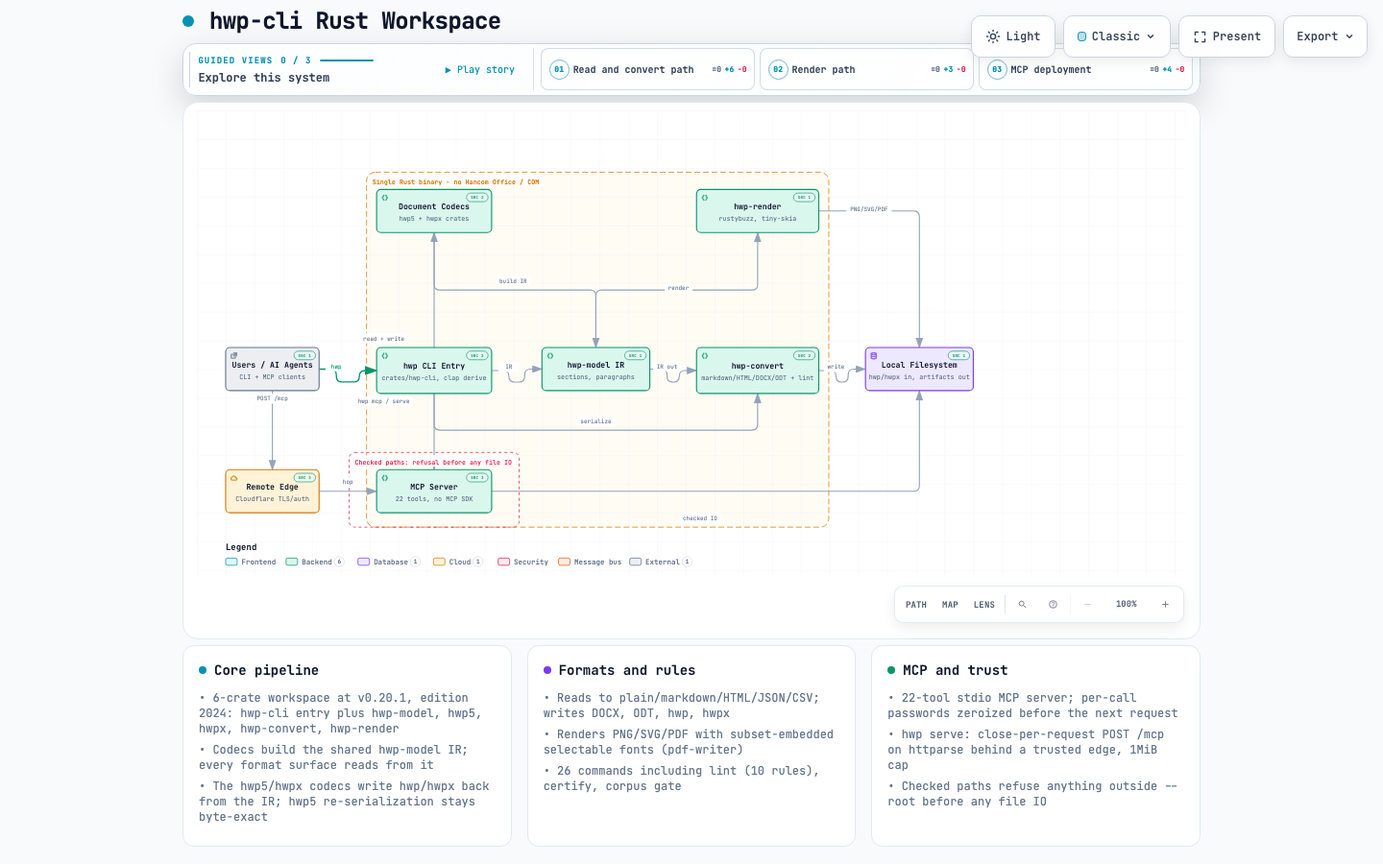
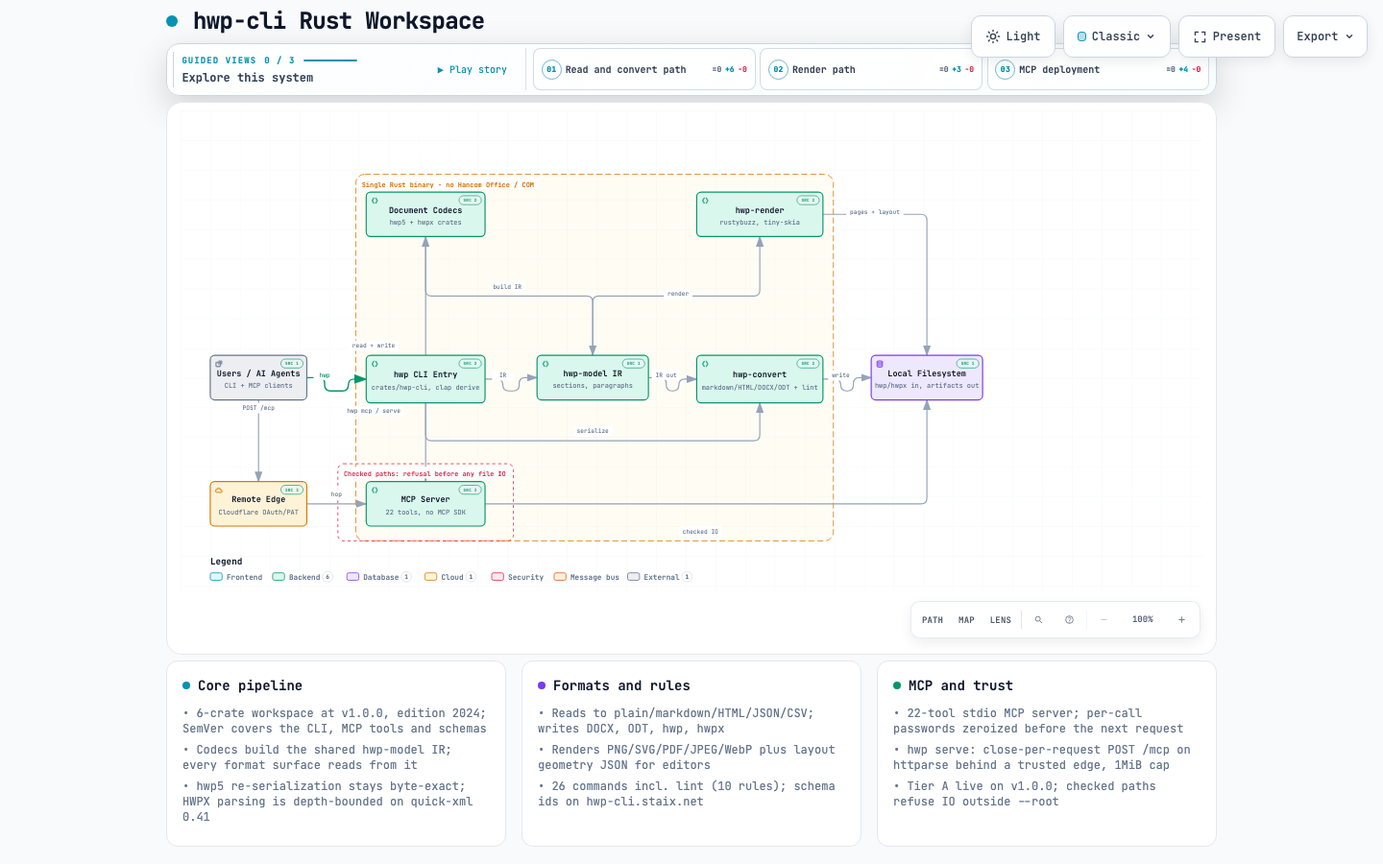
docs(archify): refresh the hwp-cli blueprint for v1.0.0
Revision 982c3e6: v1.0.0 with the SemVer scope, quick-xml 0.41 and the
depth-bounded HWPX parse, JPEG/WebP and layout-geometry output, schema
ids on hwp-cli.staix.net, and Tier A live behind Cloudflare OAuth/PAT.

Claude-Session: https://claude.ai/code/session_01Db8zCWZeJeNkrn9LPfnFH9

diff --git a/docs/hwp-cli-rendered.html b/docs/hwp-cli-rendered.html
@@ -5085,8 +5085,8 @@ OTHER DEALINGS IN THE FONT SOFTWARE.
       </div>
     </div>
 
-    <script id="archify-guided-views-data" type="application/json">[{"id":"read-path","label":"Read and convert path","focus":["user","cli","codecs","model","convert","fs"],"note":"From hwp/hwpx input to IR and converted artifacts."},{"id":"render-path","label":"Render path","focus":["model","render","fs"],"note":"IR to glyph shaping, layout and PNG/SVG/PDF publishing."},{"id":"mcp-path","label":"MCP deployment","focus":["cli","mcp","edge","fs"],"note":"22-tool stdio server and the POST /mcp edge hop."}]</script>
-    <script id="archify-source-evidence-data" type="application/json">{"schemaVersion":1,"verified":true,"repository":{"url":"https://github.com/STAIxBWLB/hwp-cli","revision":"41a1c555747b338efe265f87cb6dca06b223cad7","shortRevision":"41a1c55","label":"STAIxBWLB/hwp-cli","href":"https://github.com/STAIxBWLB/hwp-cli/tree/41a1c555747b338efe265f87cb6dca06b223cad7"},"referenceCount":16,"nodes":{"user":[{"path":"crates/hwp-cli/src/cli.rs","line":68,"label":"clap derive Cmd enum","href":"https://github.com/STAIxBWLB/hwp-cli/blob/41a1c555747b338efe265f87cb6dca06b223cad7/crates/hwp-cli/src/cli.rs#L68"}],"cli":[{"path":"crates/hwp-cli/src/cli.rs","line":68,"endLine":580,"label":"26-variant Cmd enum","href":"https://github.com/STAIxBWLB/hwp-cli/blob/41a1c555747b338efe265f87cb6dca06b223cad7/crates/hwp-cli/src/cli.rs#L68-L580"},{"path":"crates/hwp-cli/src/main.rs","line":1,"label":"hwp binary entrypoint","href":"https://github.com/STAIxBWLB/hwp-cli/blob/41a1c555747b338efe265f87cb6dca06b223cad7/crates/hwp-cli/src/main.rs#L1"}],"codecs":[{"path":"crates/hwp5/src/lib.rs","line":1,"label":"CFB record stream codec","href":"https://github.com/STAIxBWLB/hwp-cli/blob/41a1c555747b338efe265f87cb6dca06b223cad7/crates/hwp5/src/lib.rs#L1"},{"path":"crates/hwpx/src/lib.rs","line":1,"label":"OWPML package codec","href":"https://github.com/STAIxBWLB/hwp-cli/blob/41a1c555747b338efe265f87cb6dca06b223cad7/crates/hwpx/src/lib.rs#L1"}],"model":[{"path":"crates/hwp-model/src/lib.rs","line":1,"label":"L1 semantic IR, serde only","href":"https://github.com/STAIxBWLB/hwp-cli/blob/41a1c555747b338efe265f87cb6dca06b223cad7/crates/hwp-model/src/lib.rs#L1"}],"render":[{"path":"crates/hwp-render/src/lib.rs","line":1,"label":"IR to PNG/SVG/PDF pipeline","href":"https://github.com/STAIxBWLB/hwp-cli/blob/41a1c555747b338efe265f87cb6dca06b223cad7/crates/hwp-render/src/lib.rs#L1"}],"convert":[{"path":"crates/hwp-convert/src/lint.rs","line":76,"endLine":85,"label":"10 stable rule ids","href":"https://github.com/STAIxBWLB/hwp-cli/blob/41a1c555747b338efe265f87cb6dca06b223cad7/crates/hwp-convert/src/lint.rs#L76-L85"},{"path":"crates/hwp-convert/src/official.rs","line":9,"label":"6 official-document profiles","href":"https://github.com/STAIxBWLB/hwp-cli/blob/41a1c555747b338efe265f87cb6dca06b223cad7/crates/hwp-convert/src/official.rs#L9"}],"fs":[{"path":"crates/hwp-cli/src/certification.rs","line":2964,"label":"atomic write_artifact staging","href":"https://github.com/STAIxBWLB/hwp-cli/blob/41a1c555747b338efe265f87cb6dca06b223cad7/crates/hwp-cli/src/certification.rs#L2964"}],"mcp":[{"path":"crates/hwp-cli/src/commands/mcp/mod.rs","line":2302,"label":"tool_defs: 22 tool table","href":"https://github.com/STAIxBWLB/hwp-cli/blob/41a1c555747b338efe265f87cb6dca06b223cad7/crates/hwp-cli/src/commands/mcp/mod.rs#L2302"},{"path":"crates/hwp-cli/src/commands/mcp/stdio.rs","line":4,"label":"per-call password zeroize","href":"https://github.com/STAIxBWLB/hwp-cli/blob/41a1c555747b338efe265f87cb6dca06b223cad7/crates/hwp-cli/src/commands/mcp/stdio.rs#L4"},{"path":"crates/hwp-cli/src/commands/mcp/authority.rs","line":273,"label":"checked_read_path / checked_write_path","href":"https://github.com/STAIxBWLB/hwp-cli/blob/41a1c555747b338efe265f87cb6dca06b223cad7/crates/hwp-cli/src/commands/mcp/authority.rs#L273"}],"edge":[{"path":"crates/hwp-cli/src/commands/mcp/http.rs","line":1,"label":"close-per-request POST /mcp adapter","href":"https://github.com/STAIxBWLB/hwp-cli/blob/41a1c555747b338efe265f87cb6dca06b223cad7/crates/hwp-cli/src/commands/mcp/http.rs#L1"},{"path":"crates/hwp-cli/src/commands/mcp/wire.rs","line":1,"label":"httparse head parsing, bounded framing","href":"https://github.com/STAIxBWLB/hwp-cli/blob/41a1c555747b338efe265f87cb6dca06b223cad7/crates/hwp-cli/src/commands/mcp/wire.rs#L1"},{"path":"docs/design/22-remote-mcp-deployment.md","line":85,"label":"private hop behind a trusted edge","href":"https://github.com/STAIxBWLB/hwp-cli/blob/41a1c555747b338efe265f87cb6dca06b223cad7/docs/design/22-remote-mcp-deployment.md#L85"}]}}</script>
+    <script id="archify-guided-views-data" type="application/json">[{"id":"read-path","label":"Read and convert path","focus":["user","cli","codecs","model","convert","fs"],"note":"From hwp/hwpx input to IR and converted artifacts."},{"id":"render-path","label":"Render path","focus":["model","render","fs"],"note":"IR to glyph shaping, layout, page output and layout geometry."},{"id":"mcp-path","label":"MCP deployment","focus":["cli","mcp","edge","fs"],"note":"22-tool stdio server and the POST /mcp edge hop."}]</script>
+    <script id="archify-source-evidence-data" type="application/json">{"schemaVersion":1,"verified":true,"repository":{"url":"https://github.com/STAIxBWLB/hwp-cli","revision":"982c3e63557546b8721009405d87d5b6af7c64de","shortRevision":"982c3e6","label":"STAIxBWLB/hwp-cli","href":"https://github.com/STAIxBWLB/hwp-cli/tree/982c3e63557546b8721009405d87d5b6af7c64de"},"referenceCount":17,"nodes":{"user":[{"path":"crates/hwp-cli/src/cli.rs","line":68,"label":"clap derive Cmd enum","href":"https://github.com/STAIxBWLB/hwp-cli/blob/982c3e63557546b8721009405d87d5b6af7c64de/crates/hwp-cli/src/cli.rs#L68"}],"cli":[{"path":"crates/hwp-cli/src/cli.rs","line":68,"endLine":580,"label":"26-variant Cmd enum","href":"https://github.com/STAIxBWLB/hwp-cli/blob/982c3e63557546b8721009405d87d5b6af7c64de/crates/hwp-cli/src/cli.rs#L68-L580"},{"path":"crates/hwp-cli/src/main.rs","line":1,"label":"hwp binary entrypoint","href":"https://github.com/STAIxBWLB/hwp-cli/blob/982c3e63557546b8721009405d87d5b6af7c64de/crates/hwp-cli/src/main.rs#L1"}],"codecs":[{"path":"crates/hwp5/src/lib.rs","line":1,"label":"CFB record stream codec","href":"https://github.com/STAIxBWLB/hwp-cli/blob/982c3e63557546b8721009405d87d5b6af7c64de/crates/hwp5/src/lib.rs#L1"},{"path":"crates/hwpx/src/lib.rs","line":1,"label":"OWPML package codec","href":"https://github.com/STAIxBWLB/hwp-cli/blob/982c3e63557546b8721009405d87d5b6af7c64de/crates/hwpx/src/lib.rs#L1"}],"model":[{"path":"crates/hwp-model/src/lib.rs","line":1,"label":"L1 semantic IR, serde only","href":"https://github.com/STAIxBWLB/hwp-cli/blob/982c3e63557546b8721009405d87d5b6af7c64de/crates/hwp-model/src/lib.rs#L1"}],"render":[{"path":"crates/hwp-render/src/lib.rs","line":1,"label":"IR to page raster/vector pipeline","href":"https://github.com/STAIxBWLB/hwp-cli/blob/982c3e63557546b8721009405d87d5b6af7c64de/crates/hwp-render/src/lib.rs#L1"},{"path":"crates/hwp-render/src/segment_map.rs","line":1,"label":"render-layout-v1 geometry rows","href":"https://github.com/STAIxBWLB/hwp-cli/blob/982c3e63557546b8721009405d87d5b6af7c64de/crates/hwp-render/src/segment_map.rs#L1"}],"convert":[{"path":"crates/hwp-convert/src/lint.rs","line":76,"endLine":85,"label":"10 stable rule ids","href":"https://github.com/STAIxBWLB/hwp-cli/blob/982c3e63557546b8721009405d87d5b6af7c64de/crates/hwp-convert/src/lint.rs#L76-L85"},{"path":"crates/hwp-convert/src/official.rs","line":9,"label":"6 official-document profiles","href":"https://github.com/STAIxBWLB/hwp-cli/blob/982c3e63557546b8721009405d87d5b6af7c64de/crates/hwp-convert/src/official.rs#L9"}],"fs":[{"path":"crates/hwp-cli/src/certification.rs","line":2964,"label":"atomic write_artifact staging","href":"https://github.com/STAIxBWLB/hwp-cli/blob/982c3e63557546b8721009405d87d5b6af7c64de/crates/hwp-cli/src/certification.rs#L2964"}],"mcp":[{"path":"crates/hwp-cli/src/commands/mcp/mod.rs","line":2302,"label":"tool_defs: 22 tool table","href":"https://github.com/STAIxBWLB/hwp-cli/blob/982c3e63557546b8721009405d87d5b6af7c64de/crates/hwp-cli/src/commands/mcp/mod.rs#L2302"},{"path":"crates/hwp-cli/src/commands/mcp/stdio.rs","line":4,"label":"per-call password zeroize","href":"https://github.com/STAIxBWLB/hwp-cli/blob/982c3e63557546b8721009405d87d5b6af7c64de/crates/hwp-cli/src/commands/mcp/stdio.rs#L4"},{"path":"crates/hwp-cli/src/commands/mcp/authority.rs","line":273,"label":"checked_read_path / checked_write_path","href":"https://github.com/STAIxBWLB/hwp-cli/blob/982c3e63557546b8721009405d87d5b6af7c64de/crates/hwp-cli/src/commands/mcp/authority.rs#L273"}],"edge":[{"path":"crates/hwp-cli/src/commands/mcp/http.rs","line":1,"label":"close-per-request POST /mcp adapter","href":"https://github.com/STAIxBWLB/hwp-cli/blob/982c3e63557546b8721009405d87d5b6af7c64de/crates/hwp-cli/src/commands/mcp/http.rs#L1"},{"path":"crates/hwp-cli/src/commands/mcp/wire.rs","line":1,"label":"httparse head parsing, bounded framing","href":"https://github.com/STAIxBWLB/hwp-cli/blob/982c3e63557546b8721009405d87d5b6af7c64de/crates/hwp-cli/src/commands/mcp/wire.rs#L1"},{"path":"docs/design/22-remote-mcp-deployment.md","line":85,"label":"private hop behind a trusted edge","href":"https://github.com/STAIxBWLB/hwp-cli/blob/982c3e63557546b8721009405d87d5b6af7c64de/docs/design/22-remote-mcp-deployment.md#L85"}]}}</script>
     <script id="archify-i18n-data" type="application/json">{"locale":"en","messages":{"viewer.kind.frontend":"Frontend","viewer.kind.backend":"Backend","viewer.kind.database":"Database","viewer.kind.cloud":"Cloud","viewer.kind.security":"Security","viewer.kind.messagebus":"Message bus","viewer.kind.external":"External","viewer.kind.neutral":"Neutral","viewer.kind.node":"Node","viewer.kind.start":"Start","viewer.kind.active":"Active","viewer.kind.waiting":"Waiting","viewer.kind.decision":"Decision","viewer.kind.success":"Success","viewer.kind.failure":"Failure","viewer.toolbar.actions":"Diagram actions","viewer.theme.toggle.title":"Toggle theme (T)","viewer.theme.toggle":"Toggle color theme","viewer.theme.dark":"Dark","viewer.theme.light":"Light","viewer.preset.choose.title":"Choose visual style (S cycles)","viewer.preset.choose":"Choose visual style","viewer.preset.style":"Style","viewer.preset.menu":"Visual style","viewer.preset.identity":"Visual identity","viewer.preset.cycles":"S cycles","viewer.preset.classic":"Classic","viewer.preset.classic.short":"Classic","viewer.preset.classic.hint":"Stable technical default","viewer.preset.flow":"Signal Flow","viewer.preset.flow.short":"Flow","viewer.preset.flow.hint":"Motion-forward presentation","viewer.preset.blueprint":"Blueprint","viewer.preset.blueprint.hint":"Engineering review","viewer.preset.editorial":"Editorial","viewer.preset.editorial.hint":"Publication and launch notes","viewer.preset.badge.signalFlow":"SIGNAL FLOW","viewer.preset.badge.blueprint":"BLUEPRINT / REV 01","viewer.preset.badge.editorial":"EDITORIAL / FIELD NOTE","viewer.preset.badge.editorialPlate":"ARCHIFY / PLATE 04","viewer.preset.current":"Visual style: {style}. Choose visual style","viewer.motion.live":"Live","viewer.motion.still":"Still","viewer.motion.pause":"Pause motion","viewer.motion.resume":"Resume motion","viewer.motion.reduced":"Motion paused by reduced-motion preference","viewer.motion.hidden":"Motion paused while this page is hidden","viewer.motion.yielding":"Pause motion; currently yielding to {owner}","viewer.motion.yielding.title":"Live preview enabled · yielding to {owner}","viewer.owner.story":"the guided story","viewer.owner.chapter":"the active chapter","viewer.owner.chapterPreview":"the chapter delta preview","viewer.owner.handoff":"the chapter handoff","viewer.owner.route":"Route Probe","viewer.owner.lens":"Semantic Lens","viewer.owner.relationship":"Relationship Preview","viewer.owner.intent":"Intent Trace","viewer.owner.focus":"semantic focus","viewer.owner.legend":"legend preview","viewer.owner.reader":"reader interaction","viewer.present.enter":"Enter presentation stage","viewer.present.enter.title":"Presentation stage (F)","viewer.present.exit":"Exit presentation stage","viewer.present.exit.title":"Exit presentation stage (F or Escape)","viewer.present.present":"Present","viewer.present.exit.label":"Exit","viewer.export.button":"Export","viewer.export.button.title":"Export diagram (E)","viewer.export.diagram":"Export diagram","viewer.export.menu":"Export","viewer.export.subtitle":"Portable, clean outputs","viewer.export.share":"Share","viewer.export.shareCard":"Share Card","viewer.export.routeShareCard":"Route Share Card","viewer.export.reachShareCard":"Reach Share Card","viewer.export.copyShareCard":"Copy Share Card","viewer.export.copyDiagram":"Copy diagram","viewer.export.clipboardPng":"PNG to clipboard","viewer.export.raster":"Raster images","viewer.export.image":"Image","viewer.export.lossless":"Lossless image","viewer.export.compact":"Compact image","viewer.export.modern":"Modern image","viewer.export.vectorMotion":"Vector and motion","viewer.export.vectorMotion.heading":"Vector \u0026 motion","viewer.export.editable":"Editable vector","viewer.export.motion6s":"6s motion","viewer.export.unsupported":"Not supported by this browser","viewer.export.clipboardUnsupported":"Clipboard image write not supported by this browser","viewer.export.clipboardUnsupported.period":"Clipboard image write not supported by this browser.","viewer.export.clipboardUnsupported.short":"Clipboard image write not supported in this browser.","viewer.export.motionUnavailable":"Motion capture unavailable in this browser","viewer.export.webmUnavailable":"WebM unavailable in this browser","viewer.export.failed":"Export failed: {message}","viewer.export.unknownVariant":"Unknown Share Card variant: {variant}","viewer.export.routeRequired":"Trace a route before exporting a Route Share Card","viewer.export.reachRequired":"Trace authored reach before exporting a Reach Share Card","viewer.export.unknown":"unknown","viewer.export.routeFailed":"Route Share Card export failed: {message}","viewer.export.reachFailed":"Reach Share Card export failed: {message}","viewer.export.copyFailed":"Copy failed: {message}","viewer.export.copiedPng":"Copied PNG to clipboard","viewer.export.copiedShare":"Copied Share Card","viewer.export.downloadedShare":"Downloaded Share Card","viewer.export.downloadedRoute":"Downloaded Route Share Card","viewer.export.downloadedReach":"Downloaded Reach Share Card","viewer.export.downloadedWebm":"Downloaded WebM","viewer.export.recording":"Recording 6 seconds of motion…","viewer.export.card.routeSummary.one":"Route: {source} → {target} · {count} directed hop","viewer.export.card.routeSummary.other":"Route: {source} → {target} · {count} directed hops","viewer.export.card.reachSummary":"Authored {direction} from {origin} · {nodes} · {links} · max {hops}","viewer.export.card.node.one":"{count} node","viewer.export.card.node.other":"{count} nodes","viewer.export.card.link.one":"{count} link","viewer.export.card.link.other":"{count} links","viewer.export.card.hop.one":"{count} hop","viewer.export.card.hop.other":"{count} hops","viewer.export.card.routeBadge":"ARCHIFY · ROUTE · {hops}","viewer.export.card.reachBadge":"ARCHIFY · {direction} REACH","viewer.export.card.defaultBadge":"ARCHIFY · {preset} · {theme}","viewer.export.direction.upstream":"Upstream","viewer.export.direction.downstream":"Downstream","viewer.export.error.canvasUnavailable":"Canvas unavailable for {label}","viewer.export.error.contextUnavailable":"2D canvas context unavailable for {label}","viewer.export.error.toBlobUnavailable":"canvas.toBlob unavailable for {label}","viewer.export.error.toBlobNull":"canvas.toBlob returned no data for {label}","viewer.export.error.variantsCombined":"Share Card variants cannot be combined","viewer.export.error.viewerState":"Share Card export could not remove temporary viewer state","viewer.export.error.routeState":"Route Card export could not preserve the resolved route safely","viewer.export.error.reachState":"Reach Card export could not preserve authored reach safely","viewer.export.error.webmRequirements":"WebM motion export requires a trace animation and browser MediaRecorder support","viewer.export.error.mediaRecorder":"MediaRecorder failed","viewer.export.error.emptyWebm":"MediaRecorder produced an empty WebM","viewer.export.error.webmBackground":"SVG background could not be loaded for WebM export","viewer.guided.region":"Guided diagram views","viewer.guided.previous":"Previous guided view","viewer.guided.previous.title":"Previous guided view ([)","viewer.guided.next":"Next guided view","viewer.guided.next.title":"Next guided view (])","viewer.guided.views":"Guided views","viewer.guided.explore":"Explore this system","viewer.guided.intro":"Step through curated paths without changing the source diagram.","viewer.guided.trail":"Story trail","viewer.guided.beat":"Beat","viewer.guided.nextBeat":"Next","viewer.guided.play":"Play guided story","viewer.guided.play.title":"Play guided story (P)","viewer.guided.pause":"Pause guided story","viewer.guided.pause.title":"Pause guided story (P)","viewer.guided.replay":"Replay guided story","viewer.guided.replay.title":"Replay guided story (P)","viewer.guided.playStory":"Play story","viewer.guided.pauseStory":"Pause","viewer.guided.replayStory":"Replay story","viewer.guided.motionUnavailable":"Story playback unavailable while motion is Still","viewer.guided.enableMotion":"Switch motion to Live to play the guided story","viewer.guided.selectBeatLink":"Select a Story Beat to copy its exact link","viewer.guided.copyMoment":"Copy moment","viewer.guided.momentCopied":"Moment link copied","viewer.guided.momentCopyFailed":"Could not copy story moment link","viewer.guided.copied":"Copied","viewer.guided.copyFailed":"Copy failed","viewer.guided.showAll":"Show all","viewer.guided.showAll.aria":"Show entire diagram","viewer.guided.chapters":"Story chapters","viewer.guided.storyTrail":"Story trail for {label}: {count} beats","viewer.guided.chapter.open":"Open chapter {index} of {total}: {label}, {count} stops","viewer.guided.chapter.current":"Current chapter {index} of {total}: {label}, {count} stops","viewer.guided.chapter.selectedNodes":"{count} selected nodes","viewer.guided.chapter.stops":"{count} stops","viewer.guided.chapter.stop.one":"{count} stop","viewer.guided.chapter.stop.other":"{count} stops","viewer.guided.chapter.current.title":"{label} — current chapter, {count} stops","viewer.guided.chapter.delta.expanded":"{stay} stay, {enter} enter, {leave} leave","viewer.guided.chapter.delta.aria":"Open chapter {index} of {total}: {label}. Chapter focus delta: {delta}","viewer.guided.chapter.delta.title":"{label} — {delta} chapter focus","viewer.guided.handoff":"{from} → {to} · via {label}","viewer.guided.share.chapter":"Chapter {index} / {total}","viewer.guided.share.initial":"Chapter 01 / 01","viewer.guided.share.default":"Guided chapter","viewer.guided.state.ready":"Ready","viewer.guided.state.playing":"Playing","viewer.guided.state.settled":"Settled","viewer.guided.state.paused":"Paused","viewer.guided.state.pinned":"Pinned","viewer.guided.state.still":"Still","viewer.guided.share.step":"Step {index} / {total} · {label}","viewer.guided.share.staticMoment":"{step} · Static moment","viewer.guided.share.complete":"{count} steps complete · {note}","viewer.guided.share.settled":"Path settled for reading.","viewer.guided.share.staticPath":"{count} steps · Static path","viewer.guided.share.ready":"{count} steps · Ready","viewer.guided.share.aria":"{state} chapter {index} of {total}: {label}. {beat}. {route}","viewer.guided.beat.start":"Beat {index} / {total} · {label} · starting point","viewer.guided.beat.forward":"Beat {index} / {total} · {from} → {to}","viewer.guided.beat.reverse":"Beat {index} / {total} · {from} → {to} · reverse authored link","viewer.guided.beat.multiple":"Beat {index} / {total} · {from} ⇄ {to} · {count} authored links","viewer.guided.beat.group":"Beat {index} / {total} · {from} · {to} · grouped · no direct link","viewer.guided.beat.aria.prefix":"Story beat {index} of {total}: {label}. ","viewer.guided.beat.aria.start":"Starting point.","viewer.guided.beat.aria.forward":"From {from} through one authored forward relationship.","viewer.guided.beat.aria.reverse":"From {from}; the authored relationship points from {to} to {from}.","viewer.guided.beat.aria.multiple":"From {from} through {count} authored relationships; shown without arbitrary motion.","viewer.guided.beat.aria.group":"Grouped from {from} with no direct authored relationship.","viewer.guided.caption.start":"Starting point","viewer.guided.caption.grouped":"Grouped transition · no direct authored link","viewer.guided.caption.more":" +{count} more","viewer.guided.caption.reverse":"Reverse authored relationship","viewer.guided.caption.relationships":"{count} authored relationships","viewer.guided.caption.relationship":"Authored relationship","viewer.guided.caption.direction":"authored direction: {from} → {to}","viewer.guided.caption.starting":"Authored starting point","viewer.guided.beatLink":"Copy link to current story moment: Beat {index} of {total}: {label}","viewer.guided.noStory":"This diagram has no authored guided story.","viewer.guide.eyebrow":"Diagram guide","viewer.guide.close":"Close diagram guide","viewer.guide.inspecting":"Inspecting compiled semantics","viewer.guide.actions":"Diagram exploration actions","viewer.guide.find":"Find any node","viewer.guide.find.hint":"Search labels, responsibilities, kinds, and stable IDs.","viewer.guide.route":"Trace a route","viewer.guide.route.aria":"Trace a directed route","viewer.guide.route.hint":"Ask how two semantic nodes connect in authored direction.","viewer.guide.map":"See the whole system","viewer.guide.map.hint":"Open Semantic Radar with a live viewport and stable nodes.","viewer.guide.lens":"Compare semantic kinds","viewer.guide.lens.hint":"Count roles, reveal their traffic, and compare direct authored links.","viewer.guide.story":"Play the guided story","viewer.guide.story.hint":"Walk the authored chapters and real relationships.","viewer.guide.present":"Enter Presentation Stage","viewer.guide.present.hint":"Give the live diagram the viewport without changing export.","viewer.guide.shortcuts":"Additional keyboard shortcuts","viewer.guide.shortcut.export":"Export","viewer.guide.shortcut.theme":"Theme","viewer.guide.shortcut.style":"Style","viewer.guide.shortcut.reset":"Reset","viewer.guide.shortcut.zoomIn":"Zoom in","viewer.guide.shortcut.zoomOut":"Zoom out","viewer.guide.shortcut.close":"Close","viewer.guide.facts":"{nodes} · {relationships} · {views}","viewer.guide.fact.node.one":"{count} semantic node","viewer.guide.fact.node.other":"{count} semantic nodes","viewer.guide.fact.relationship.one":"{count} relationship","viewer.guide.fact.relationship.other":"{count} relationships","viewer.guide.fact.view.one":"{count} guided view","viewer.guide.fact.view.other":"{count} guided views","viewer.guide.story.available.one":"Walk {count} authored chapter and its real relationships.","viewer.guide.story.available.other":"Walk {count} authored chapters and their real relationships.","viewer.guide.story.unavailable":"No authored guided story in this diagram.","viewer.guide.open":"Open diagram guide","viewer.guide.noStory":"This diagram has no authored guided story.","viewer.finder.title":"Find a node","viewer.finder.close":"Close node finder","viewer.finder.placeholder":"Search labels or IDs","viewer.finder.search":"Search diagram nodes","viewer.finder.results":"Diagram nodes","viewer.finder.empty":"No matching nodes","viewer.finder.result.focus":"Focus {label}","viewer.finder.result.routeStart":"Choose {label} as route start","viewer.finder.result.routeTarget":"Choose {label} as route destination, {links}","viewer.finder.status.empty":"No matching nodes","viewer.finder.status.count.one":"{count} matching node","viewer.finder.status.count.other":"{count} matching nodes","viewer.finder.noun.nodes":"nodes","viewer.finder.link.one":"{count} link","viewer.finder.link.other":"{count} links","viewer.finder.result.focus.one":"Focus {label}, {count} related connection","viewer.finder.result.focus.other":"Focus {label}, {count} related connections","viewer.finder.status.filtered":"{visible} of {available} {noun}","viewer.finder.status.all":"{available} {noun}","viewer.passport.eyebrow":"Semantic passport","viewer.passport.metadata":"Node metadata","viewer.passport.evidence":"Verified source evidence","viewer.passport.verified":"Verified source","viewer.passport.verificationScope":"Verified against local Git at the pinned revision. Remote access has not been checked.","viewer.passport.reach":"Authored reach","viewer.passport.reach.trace":"Trace authored reachability","viewer.passport.upstream":"Upstream","viewer.passport.downstream":"Downstream","viewer.passport.upstream.trace":"Trace upstream authored reachability","viewer.passport.downstream.trace":"Trace downstream authored reachability","viewer.passport.close":"Close semantic passport","viewer.passport.copy":"Copy link","viewer.passport.copy.focus":"Copy link to focused node","viewer.passport.relations":"Relations","viewer.passport.relations.show":"Show connected relationships","viewer.passport.relations.hide":"Hide connected relationships","viewer.passport.relations.list":"Connected relationships","viewer.passport.copyRelation":"Copy relation","viewer.passport.copyNode":"Copy node","viewer.passport.copyPinned":"Copy link to pinned relationship","viewer.passport.copySource":"Copy link to source node","viewer.passport.copy.focused.success":"Focused node link copied","viewer.passport.copy.pinned.success":"Pinned relationship link copied","viewer.passport.copy.focused.failed":"Could not copy focused node link","viewer.passport.copy.pinned.failed":"Could not copy pinned relationship link","viewer.passport.relationship.none":"No connected relationships","viewer.passport.relationship.count.one":"{count} relation","viewer.passport.relationship.count.other":"{count} relations","viewer.passport.relationship.show.one":"Show {count} connected relationship","viewer.passport.relationship.show.other":"Show {count} connected relationships","viewer.passport.relationship.summary":"{out} outgoing · {in} incoming{loops}","viewer.passport.relationship.loops":" · {count} loop","viewer.passport.relationship.explorer":"Direct relationship explorer","viewer.passport.relationship.help":"Use arrow keys to explore relationships. Press Enter or Space to pin details; Escape clears.","viewer.passport.relationship.loopsBack":"loops back","viewer.passport.relationship.connectsTo":"connects to","viewer.passport.relationship.connectsFrom":"connects from","viewer.passport.relationship.pinned":"Pinned relationship · {from} → {to} · {label}","viewer.passport.relationship.inspect":"Inspect relationship {index} of {total}: {from} to {to}, {label}. Press Enter for details.","viewer.passport.relationship.group.out":"Outgoing","viewer.passport.relationship.group.in":"Incoming","viewer.passport.relationship.group.loop":"Self loops","viewer.passport.relationship.row":"{group}: {relationship}, {neighbor}","viewer.passport.relationship.direction.out":"OUT →","viewer.passport.relationship.direction.in":"← IN","viewer.passport.relationship.direction.loop":"LOOP","viewer.passport.sourceCount.one":"{count} verified source reference","viewer.passport.sourceCount.other":"{count} verified source references","viewer.passport.sourceMarker":"SRC","viewer.passport.beacon.one":"{count} verified source; focus this node to inspect","viewer.passport.beacon.other":"{count} verified sources; focus this node to inspect","viewer.passport.repository.open":"Open verified repository revision {revision}","viewer.passport.source.open":"Open verified source {path} at revision {revision}","viewer.passport.source.openLink":"Open ↗","viewer.passport.reach.upstream.one":"Trace {count} upstream authored node","viewer.passport.reach.upstream.other":"Trace {count} upstream authored nodes","viewer.passport.reach.downstream.one":"Trace {count} downstream authored node","viewer.passport.reach.downstream.other":"Trace {count} downstream authored nodes","viewer.passport.reach.noUpstream":"No upstream authored nodes","viewer.passport.reach.noDownstream":"No downstream authored nodes","viewer.passport.reach.status":"{direction} · {nodes} nodes · {links} links · max {hops} hops","viewer.route.eyebrow":"Route probe","viewer.route.start":"Choose a start node","viewer.route.start.find":"Find start","viewer.route.start.find.aria":"Find a route start","viewer.route.copy":"Copy link","viewer.route.copy.aria":"Copy link to traced route","viewer.route.clear":"Clear","viewer.route.clear.aria":"Clear route probe","viewer.route.traced":"Traced route","viewer.route.pickTwo":"Pick two semantic nodes on the diagram","viewer.route.pickOne":"Pick a semantic node on the diagram","viewer.route.controls":"Route journey controls","viewer.route.previous":"Previous route position","viewer.route.play":"Play route journey","viewer.route.pause":"Pause route journey","viewer.route.replay":"Replay route journey","viewer.route.next":"Next route position","viewer.route.journey":"Journey","viewer.route.pause.label":"Pause","viewer.route.replay.label":"Replay","viewer.route.overview":"Overview","viewer.route.overview.aria":"Show complete route overview","viewer.route.instructions":"Choose the source, then the destination. Direction matters.","viewer.route.destination":"Choose a destination from {label}","viewer.route.destination.find":"Find target","viewer.route.destination.find.aria":"Find a reachable route destination","viewer.route.differentDestination":"Choose a different destination","viewer.route.distinct":"A route needs two distinct semantic nodes.","viewer.route.unreachable":"No directed route to {label}","viewer.route.unreachable.detail":"{target} is not reachable from {source}. Pick a highlighted destination.","viewer.route.start.instructions":"Select the source. The next step will reveal only directed destinations.","viewer.route.copy.success":"Traced route link copied","viewer.route.copy.failed":"Could not copy traced route link","viewer.route.position":"Route position {index} of {total}: {label}","viewer.route.step":"Step {index} of {total} · {phase} · {label}","viewer.route.motionRequired":"Automatic journey requires Live motion","viewer.route.trigger.clear":"Clear traced route","viewer.route.overview.status":"{nodes} · {hops} · shortest authored route","viewer.route.overview.node.one":"{count} node","viewer.route.overview.node.other":"{count} nodes","viewer.route.overview.hop.one":"{count} directed hop","viewer.route.overview.hop.other":"{count} directed hops","viewer.route.phase.playing":"Playing","viewer.route.phase.complete":"Complete","viewer.route.phase.inspecting":"Inspecting","viewer.route.destination.count.one":"{count} directed destination available. Pick a highlighted node.","viewer.route.destination.count.other":"{count} directed destinations available. Pick a highlighted node.","viewer.route.noOutgoing":"No outgoing route starts here. Clear and choose another source.","viewer.route.result.title":"{source} to {target}","viewer.route.finder.source.title":"Choose route start","viewer.route.finder.source.placeholder":"Search route sources","viewer.route.finder.source.empty":"No matching route sources","viewer.route.finder.source.results":"Nodes that can start a route","viewer.route.finder.source.noun":"route sources","viewer.route.finder.source.badge":"start","viewer.route.finder.target.title":"Destination from {label}","viewer.route.finder.target.placeholder":"Search reachable destinations","viewer.route.finder.target.empty":"No matching reachable destinations","viewer.route.finder.target.results":"Reachable route destinations","viewer.route.finder.target.noun":"reachable destinations","viewer.route.hop.one":"{count} hop","viewer.route.hop.other":"{count} hops","viewer.lens.eyebrow":"Semantic lens","viewer.lens.title":"Compare system roles","viewer.lens.close":"Close semantic lens","viewer.lens.instruction":"Choose up to two semantic kinds. One reveals its real traffic; two compare only direct authored relationships.","viewer.lens.kinds":"Semantic kinds","viewer.lens.choose":"Choose a kind to inspect its nodes and touching relationships.","viewer.lens.copy":"Copy link to semantic lens","viewer.lens.clear":"Clear semantic lens","viewer.lens.open":"Open semantic lens","viewer.lens.openActive":"Open active semantic lens","viewer.lens.legend":"Semantic legend","viewer.lens.legend.inspect.one":"Inspect {label}, {count} node","viewer.lens.legend.inspect.other":"Inspect {label}, {count} nodes","viewer.lens.kind.count.one":"{label}, {count} node","viewer.lens.kind.count.other":"{label}, {count} nodes","viewer.lens.compare.one":"{first} → {second}: {forward} · {second} → {first}: {reverse} · {count} direct relationship","viewer.lens.compare.other":"{first} → {second}: {forward} · {second} → {first}: {reverse} · {count} direct relationships","viewer.lens.single":"{nodes} · {relationships} · connected peers remain visible","viewer.lens.node.one":"{count} {label} node","viewer.lens.node.other":"{count} {label} nodes","viewer.lens.relationship.one":"{count} touching relationship","viewer.lens.relationship.other":"{count} touching relationships","viewer.radar.title":"Semantic radar","viewer.radar.building":"Building overview","viewer.radar.openFull":"Open full semantic radar","viewer.radar.open":"Open radar","viewer.radar.close":"Close semantic radar","viewer.radar.surface":"Diagram overview. Click a node to focus it, or use arrow keys to pan.","viewer.radar.click":"Click node","viewer.radar.drag":"Drag to pan","viewer.radar.space":"Semantic radar needs more MAP space.","viewer.radar.nodes":"Semantic diagram radar nodes","viewer.radar.focus":"Focus {label} from Semantic Radar","viewer.radar.status":"{count} nodes · {viewport}","viewer.radar.fullMap":"{count} nodes · full map","viewer.radar.compacted":"Radar compacted to avoid covering the Semantic Passport or MAP controls.","viewer.radar.cancelWaiting":"Cancel semantic radar waiting for more MAP space","viewer.radar.needsSpace":"Semantic radar needs more visible MAP space","viewer.radar.viewport.full":"full map","viewer.radar.viewport.width":"{percent}% width","viewer.radar.viewport.scale":"{percent}% viewport","viewer.nav.controls":"Diagram view controls","viewer.nav.route":"Trace a directed route","viewer.nav.route.title":"Trace route (R)","viewer.nav.route.short":"PATH","viewer.nav.radar":"Open semantic radar","viewer.nav.radar.title":"Semantic radar (M)","viewer.nav.radar.short":"MAP","viewer.nav.lens":"Open semantic lens","viewer.nav.lens.title":"Semantic lens (L)","viewer.nav.lens.short":"LENS","viewer.nav.find":"Find a node","viewer.nav.find.title":"Find a node (/)","viewer.nav.guide":"Open diagram guide","viewer.nav.guide.title":"Diagram guide (?)","viewer.nav.zoomOut":"Zoom out","viewer.nav.zoomOut.title":"Zoom out (-)","viewer.nav.reset":"Reset diagram view","viewer.nav.reset.title":"Reset view (0)","viewer.nav.read":"READ","viewer.nav.zoomIn":"Zoom in","viewer.nav.zoomIn.title":"Zoom in (+)","viewer.nav.camera":"{hint}. Reset diagram view","viewer.nav.camera.title":"{semantic}{hint} · reset view (0)","viewer.nav.camera.semantic":"Semantic camera active · ","viewer.nav.level.map":"MAP","viewer.nav.level.read":"READ","viewer.nav.level.full":"FULL","viewer.nav.level.auto":"AUTO","viewer.nav.detail.map":"Zoom in to reveal relationship labels and node context","viewer.nav.detail.read":"Zoom in again to reveal tags and annotations","viewer.nav.detail.full":"Full diagram detail","viewer.intent.summary":"{label}. {out} outgoing, {in} incoming{loops}. {total} connections. Press Enter for details.","viewer.intent.loops":", {count} self loop","viewer.common.copied":"Copied","viewer.common.copyFailed":"Copy failed","viewer.common.copyLink":"Copy link","viewer.common.clear":"Clear","viewer.common.close":"Close"}}</script>
     <div class="guided-views no-print" id="guided-views" hidden aria-label="Guided diagram views">
       <button id="guided-view-prev" type="button" aria-label="Previous guided view" title="Previous guided view ([)">&#8592;</button>
@@ -5171,7 +5171,7 @@ OTHER DEALINGS IN THE FONT SOFTWARE.
         <path data-edge-from="model" data-edge-to="convert" data-edge-label="IR out" data-edge-key="7" data-edge-id="model-to-convert" data-composition-points="630,360;654,360;654,378;671,378;671,362;695,362" d="M 630 360 L 646 360 Q 654 360 654 368 L 654 370 Q 654 378 662 378 L 663 378 Q 671 378 671 370 L 671 370 Q 671 362 679 362 L 695 362" class="a-default" stroke-width="1.5" marker-end="url(#arrowhead)"/>
         <path data-edge-from="convert" data-edge-to="fs" data-edge-label="write" data-edge-key="8" data-edge-id="convert-to-fs" data-composition-points="865,362;889,362;889,378;906,378;906,360;930,360" d="M 865 362 L 881 362 Q 889 362 889 370 L 889 370 Q 889 378 897 378 L 898 378 Q 906 378 906 370 L 906 368 Q 906 360 914 360 L 930 360" class="a-default" stroke-width="1.5" marker-end="url(#arrowhead)"/>
         <path data-edge-from="model" data-edge-to="render" data-edge-label="render" data-edge-key="9" data-edge-id="model-to-render" data-composition-points="555,330;555,250;780,250;780,170" d="M 555 330 L 555 258 Q 555 250 563 250 L 772 250 Q 780 250 780 242 L 780 170" class="a-default" stroke-width="1.5" marker-end="url(#arrowhead)"/>
-        <path data-edge-from="render" data-edge-to="fs" data-edge-label="PNG/SVG/PDF" data-edge-key="10" data-edge-id="render-to-fs" data-composition-points="865,140;1005,140;1005,330" d="M 865 140 L 997 140 Q 1005 140 1005 148 L 1005 330" class="a-default" stroke-width="1.5" marker-end="url(#arrowhead)"/>
+        <path data-edge-from="render" data-edge-to="fs" data-edge-label="pages + layout" data-edge-key="10" data-edge-id="render-to-fs" data-composition-points="865,140;1005,140;1005,330" d="M 865 140 L 997 140 Q 1005 140 1005 148 L 1005 330" class="a-default" stroke-width="1.5" marker-end="url(#arrowhead)"/>
         <path data-edge-from="user" data-edge-to="edge" data-edge-label="POST /mcp" data-edge-key="11" data-edge-id="user-to-edge" data-composition-points="105,390;105,500" d="M 105 390 L 105 500" class="a-default" stroke-width="1.5" marker-end="url(#arrowhead)"/>
         <path data-edge-from="edge" data-edge-to="mcp" data-edge-label="hop" data-edge-key="12" data-edge-id="edge-to-mcp" data-composition-points="170,530;250,530" d="M 170 530 L 250 530" class="a-default" stroke-width="1.5" marker-end="url(#arrowhead)"/>
 
@@ -5224,8 +5224,8 @@ OTHER DEALINGS IN THE FONT SOFTWARE.
         <text data-detail="fine" x="555" y="382" class="t-backend" font-size="7" text-anchor="middle">shared document model</text>
         </g>
 
-        <g id="node-render" data-node-id="render" data-node-label="hwp-render" tabindex="0" role="button" aria-label="Focus hwp-render, rustybuzz, tiny-skia, Single Rust binary - no Hancom Office / COM" aria-pressed="false" data-node-kind="backend" data-node-sublabel="rustybuzz, tiny-skia" data-node-tag="PNG/SVG/PDF" data-node-context="Single Rust binary - no Hancom Office / COM">
-          <title>hwp-render · rustybuzz, tiny-skia · Single Rust binary - no Hancom Office / COM · PNG/SVG/PDF</title>
+        <g id="node-render" data-node-id="render" data-node-label="hwp-render" tabindex="0" role="button" aria-label="Focus hwp-render, rustybuzz, tiny-skia, Single Rust binary - no Hancom Office / COM" aria-pressed="false" data-node-kind="backend" data-node-sublabel="rustybuzz, tiny-skia" data-node-tag="PNG/SVG/PDF/JPEG/WebP" data-node-context="Single Rust binary - no Hancom Office / COM">
+          <title>hwp-render · rustybuzz, tiny-skia · Single Rust binary - no Hancom Office / COM · PNG/SVG/PDF/JPEG/WebP</title>
           <rect x="695" y="110" width="170" height="60" rx="6" class="c-mask"/>
           <rect x="695" y="110" width="170" height="60" rx="6" class="c-backend" stroke-width="1.5"/>
           <g aria-hidden="true" data-semantic-sigil="backend" class="semantic-sigil s-backend" transform="translate(701 116) scale(0.6875)">
@@ -5233,7 +5233,7 @@ OTHER DEALINGS IN THE FONT SOFTWARE.
           </g>
           <text data-node-label="" data-detail-anchor="" x="780" y="138" class="t-primary" font-size="11" font-weight="600" text-anchor="middle">hwp-render</text>
         <text data-detail="context" x="780" y="154" class="t-muted" font-size="9" text-anchor="middle">rustybuzz, tiny-skia</text>
-        <text data-detail="fine" x="780" y="162" class="t-backend" font-size="7" text-anchor="middle">PNG/SVG/PDF</text>
+        <text data-detail="fine" x="780" y="162" class="t-backend" font-size="7" text-anchor="middle">PNG/SVG/PDF/JPEG/WebP</text>
         </g>
 
         <g id="node-convert" data-node-id="convert" data-node-label="hwp-convert" tabindex="0" role="button" aria-label="Focus hwp-convert, markdown/HTML/DOCX/ODT + lint, Single Rust binary - no Hancom Office / COM" aria-pressed="false" data-node-kind="backend" data-node-sublabel="markdown/HTML/DOCX/ODT + lint" data-node-tag="10 lint rules" data-node-context="Single Rust binary - no Hancom Office / COM">
@@ -5273,15 +5273,15 @@ OTHER DEALINGS IN THE FONT SOFTWARE.
         <text data-detail="fine" x="330" y="552" class="t-backend" font-size="7" text-anchor="middle">stdio + HTTP</text>
         </g>
 
-        <g id="node-edge" data-node-id="edge" data-node-label="Remote Edge" tabindex="0" role="button" aria-label="Focus Remote Edge, Cloudflare TLS/auth, Architecture component" aria-pressed="false" data-node-kind="cloud" data-node-sublabel="Cloudflare TLS/auth" data-node-tag="POST /mcp" data-node-context="Architecture component">
-          <title>Remote Edge · Cloudflare TLS/auth · Architecture component · POST /mcp</title>
+        <g id="node-edge" data-node-id="edge" data-node-label="Remote Edge" tabindex="0" role="button" aria-label="Focus Remote Edge, Cloudflare OAuth/PAT, Architecture component" aria-pressed="false" data-node-kind="cloud" data-node-sublabel="Cloudflare OAuth/PAT" data-node-tag="POST /mcp" data-node-context="Architecture component">
+          <title>Remote Edge · Cloudflare OAuth/PAT · Architecture component · POST /mcp</title>
           <rect x="40" y="500" width="130" height="60" rx="6" class="c-mask"/>
           <rect x="40" y="500" width="130" height="60" rx="6" class="c-cloud" stroke-width="1.5"/>
           <g aria-hidden="true" data-semantic-sigil="cloud" class="semantic-sigil s-cloud" transform="translate(46 506) scale(0.6875)">
             <path d="M4.3 12.5h7.3a2.4 2.4 0 0 0 .2-4.8 4 4 0 0 0-7.5-1.3A3.1 3.1 0 0 0 4.3 12.5Z"/>
           </g>
           <text data-node-label="" data-detail-anchor="" x="105" y="528" class="t-primary" font-size="11" font-weight="600" text-anchor="middle">Remote Edge</text>
-        <text data-detail="context" x="105" y="544" class="t-muted" font-size="9" text-anchor="middle">Cloudflare TLS/auth</text>
+        <text data-detail="context" x="105" y="544" class="t-muted" font-size="9" text-anchor="middle">Cloudflare OAuth/PAT</text>
         <text data-detail="fine" x="105" y="552" class="t-cloud" font-size="7" text-anchor="middle">POST /mcp</text>
         </g>
 
@@ -5326,9 +5326,9 @@ OTHER DEALINGS IN THE FONT SOFTWARE.
           <rect x="650.6" y="240" width="38.8" height="14" rx="3" class="c-mask"/>
           <text x="670" y="250" class="t-muted" font-size="8" text-anchor="middle">render</text>
         </g>
-        <g data-detail="context" data-edge-from="render" data-edge-to="fs" data-edge-label="PNG/SVG/PDF" data-edge-key="10" data-edge-id="render-to-fs">
-          <rect x="903.6" y="130" width="62.8" height="14" rx="3" class="c-mask"/>
-          <text x="935" y="140" class="t-muted" font-size="8" text-anchor="middle">PNG/SVG/PDF</text>
+        <g data-detail="context" data-edge-from="render" data-edge-to="fs" data-edge-label="pages + layout" data-edge-key="10" data-edge-id="render-to-fs">
+          <rect x="896.4" y="130" width="77.2" height="14" rx="3" class="c-mask"/>
+          <text x="935" y="140" class="t-muted" font-size="8" text-anchor="middle">pages + layout</text>
         </g>
         <g data-detail="context" data-edge-from="user" data-edge-to="edge" data-edge-label="POST /mcp" data-edge-key="11" data-edge-id="user-to-edge">
           <rect x="78.4" y="394" width="53.199999999999996" height="14" rx="3" class="c-mask"/>
@@ -5574,9 +5574,9 @@ OTHER DEALINGS IN THE FONT SOFTWARE.
           <h3>Core pipeline</h3>
         </div>
         <ul>
-          <li>&bull; 6-crate workspace at v0.20.1, edition 2024: hwp-cli entry plus hwp-model, hwp5, hwpx, hwp-convert, hwp-render</li>
+          <li>&bull; 6-crate workspace at v1.0.0, edition 2024; SemVer covers the CLI, MCP tools and schemas</li>
           <li>&bull; Codecs build the shared hwp-model IR; every format surface reads from it</li>
-          <li>&bull; The hwp5/hwpx codecs write hwp/hwpx back from the IR; hwp5 re-serialization stays byte-exact</li>
+          <li>&bull; hwp5 re-serialization stays byte-exact; HWPX parsing is depth-bounded on quick-xml 0.41</li>
         </ul>
       </div>
 
@@ -5587,8 +5587,8 @@ OTHER DEALINGS IN THE FONT SOFTWARE.
         </div>
         <ul>
           <li>&bull; Reads to plain/markdown/HTML/JSON/CSV; writes DOCX, ODT, hwp, hwpx</li>
-          <li>&bull; Renders PNG/SVG/PDF with subset-embedded selectable fonts (pdf-writer)</li>
-          <li>&bull; 26 commands including lint (10 rules), certify, corpus gate</li>
+          <li>&bull; Renders PNG/SVG/PDF/JPEG/WebP plus layout geometry JSON for editors</li>
+          <li>&bull; 26 commands incl. lint (10 rules); schema ids on hwp-cli.staix.net</li>
         </ul>
       </div>
 
@@ -5600,7 +5600,7 @@ OTHER DEALINGS IN THE FONT SOFTWARE.
         <ul>
           <li>&bull; 22-tool stdio MCP server; per-call passwords zeroized before the next request</li>
           <li>&bull; hwp serve: close-per-request POST /mcp on httparse behind a trusted edge, 1MiB cap</li>
-          <li>&bull; Checked paths refuse anything outside --root before any file IO</li>
+          <li>&bull; Tier A live on v1.0.0; checked paths refuse IO outside --root</li>
         </ul>
       </div>
     </div>
